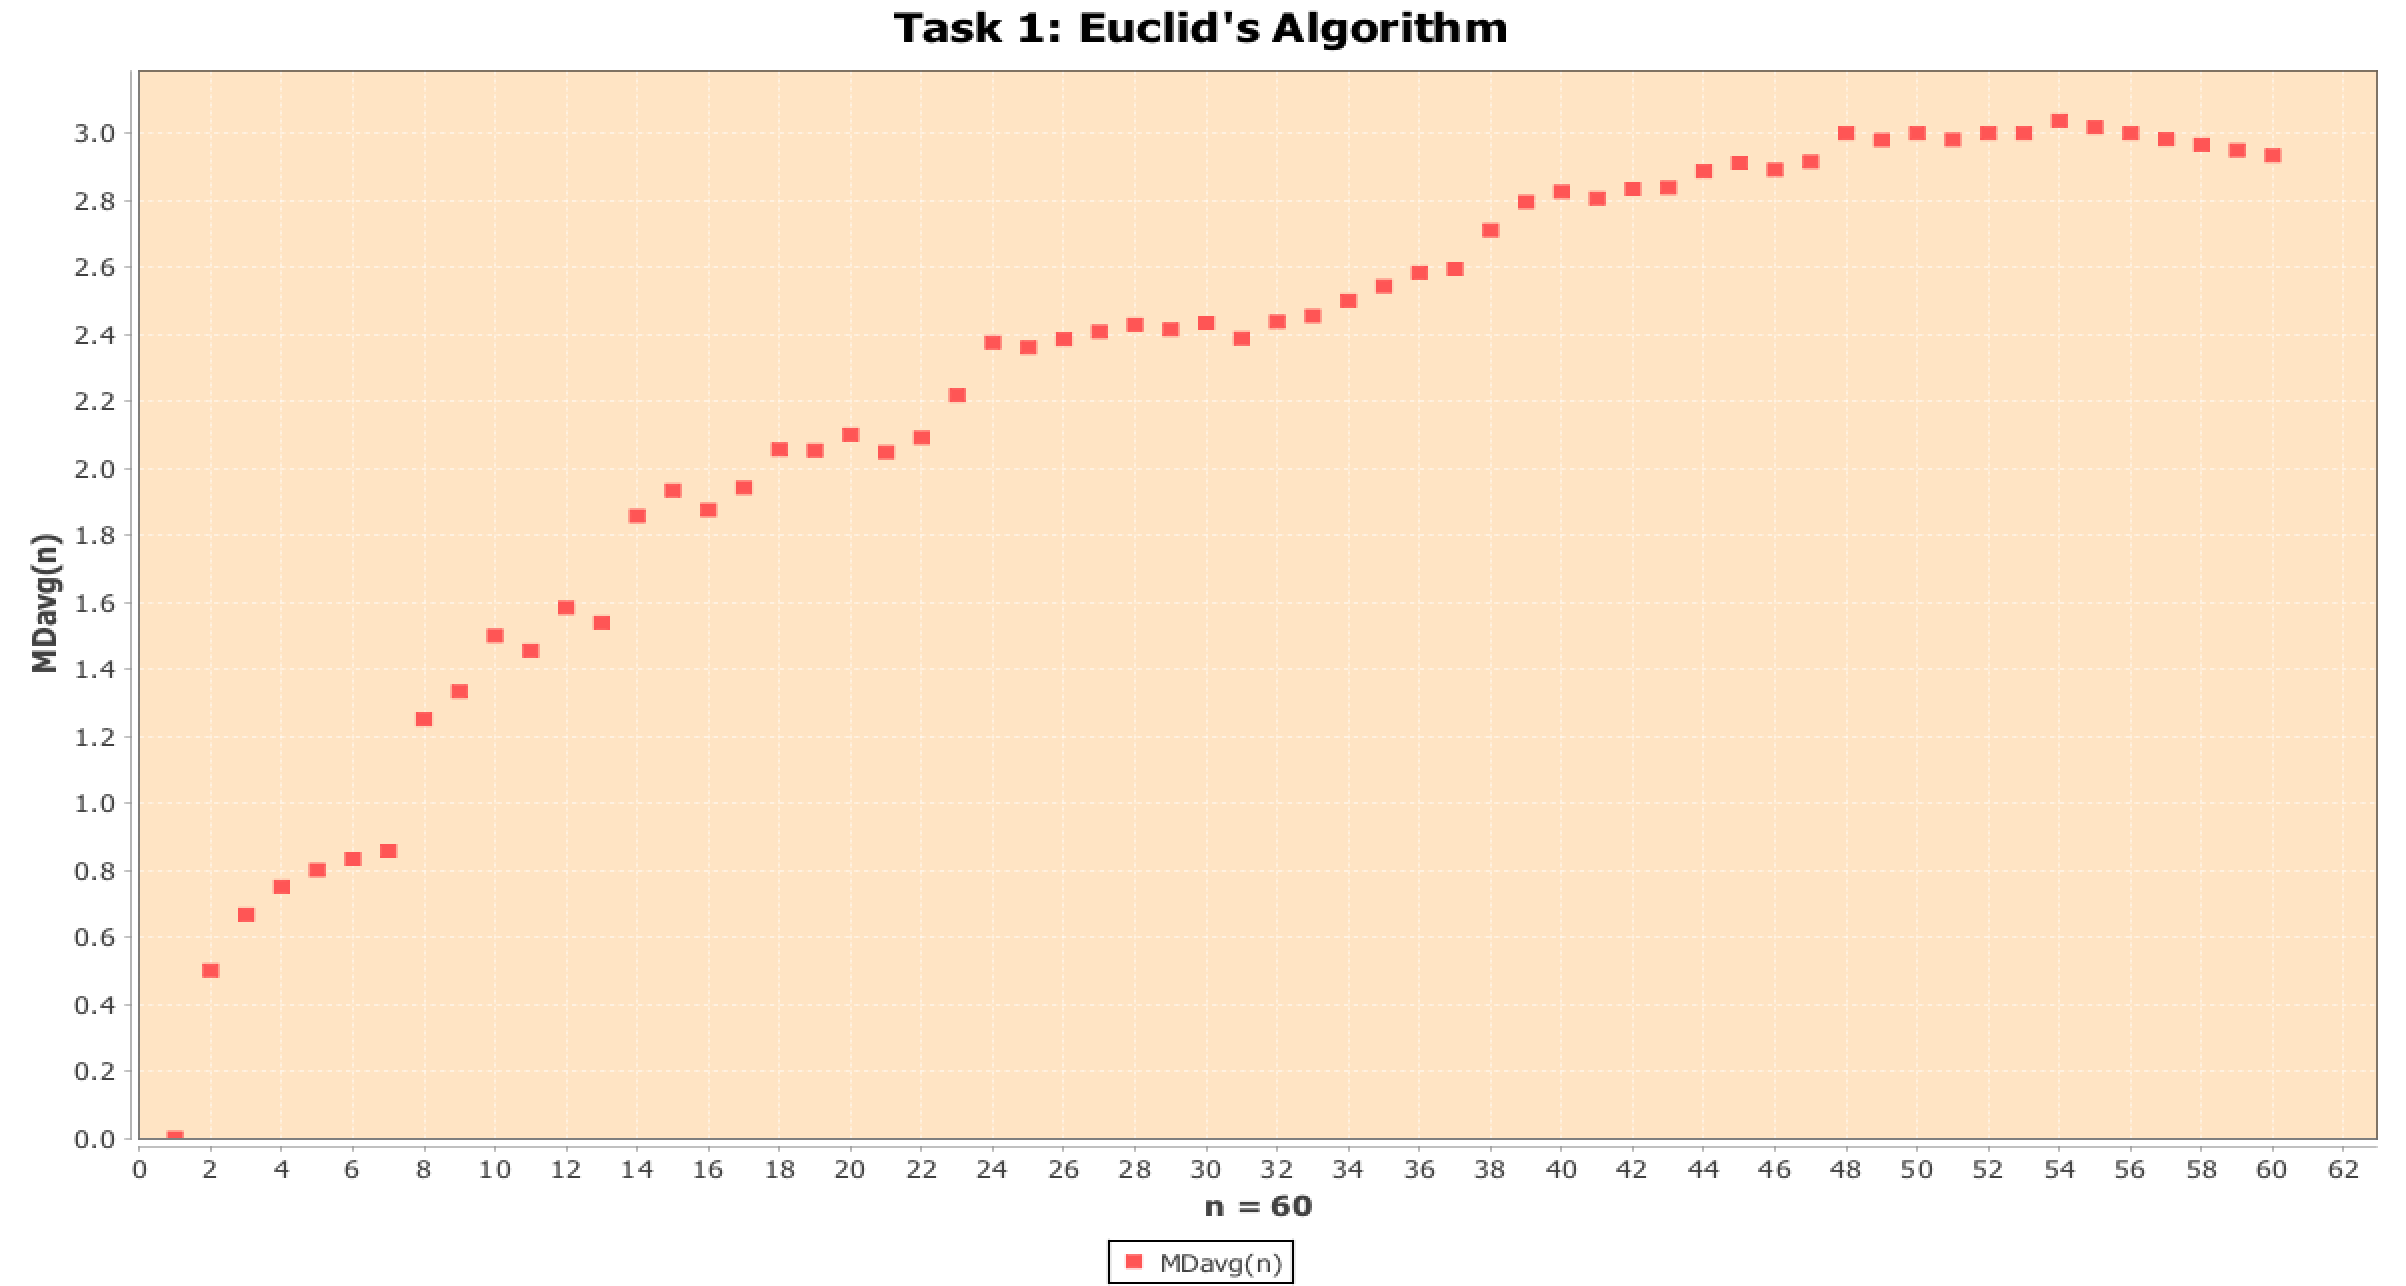
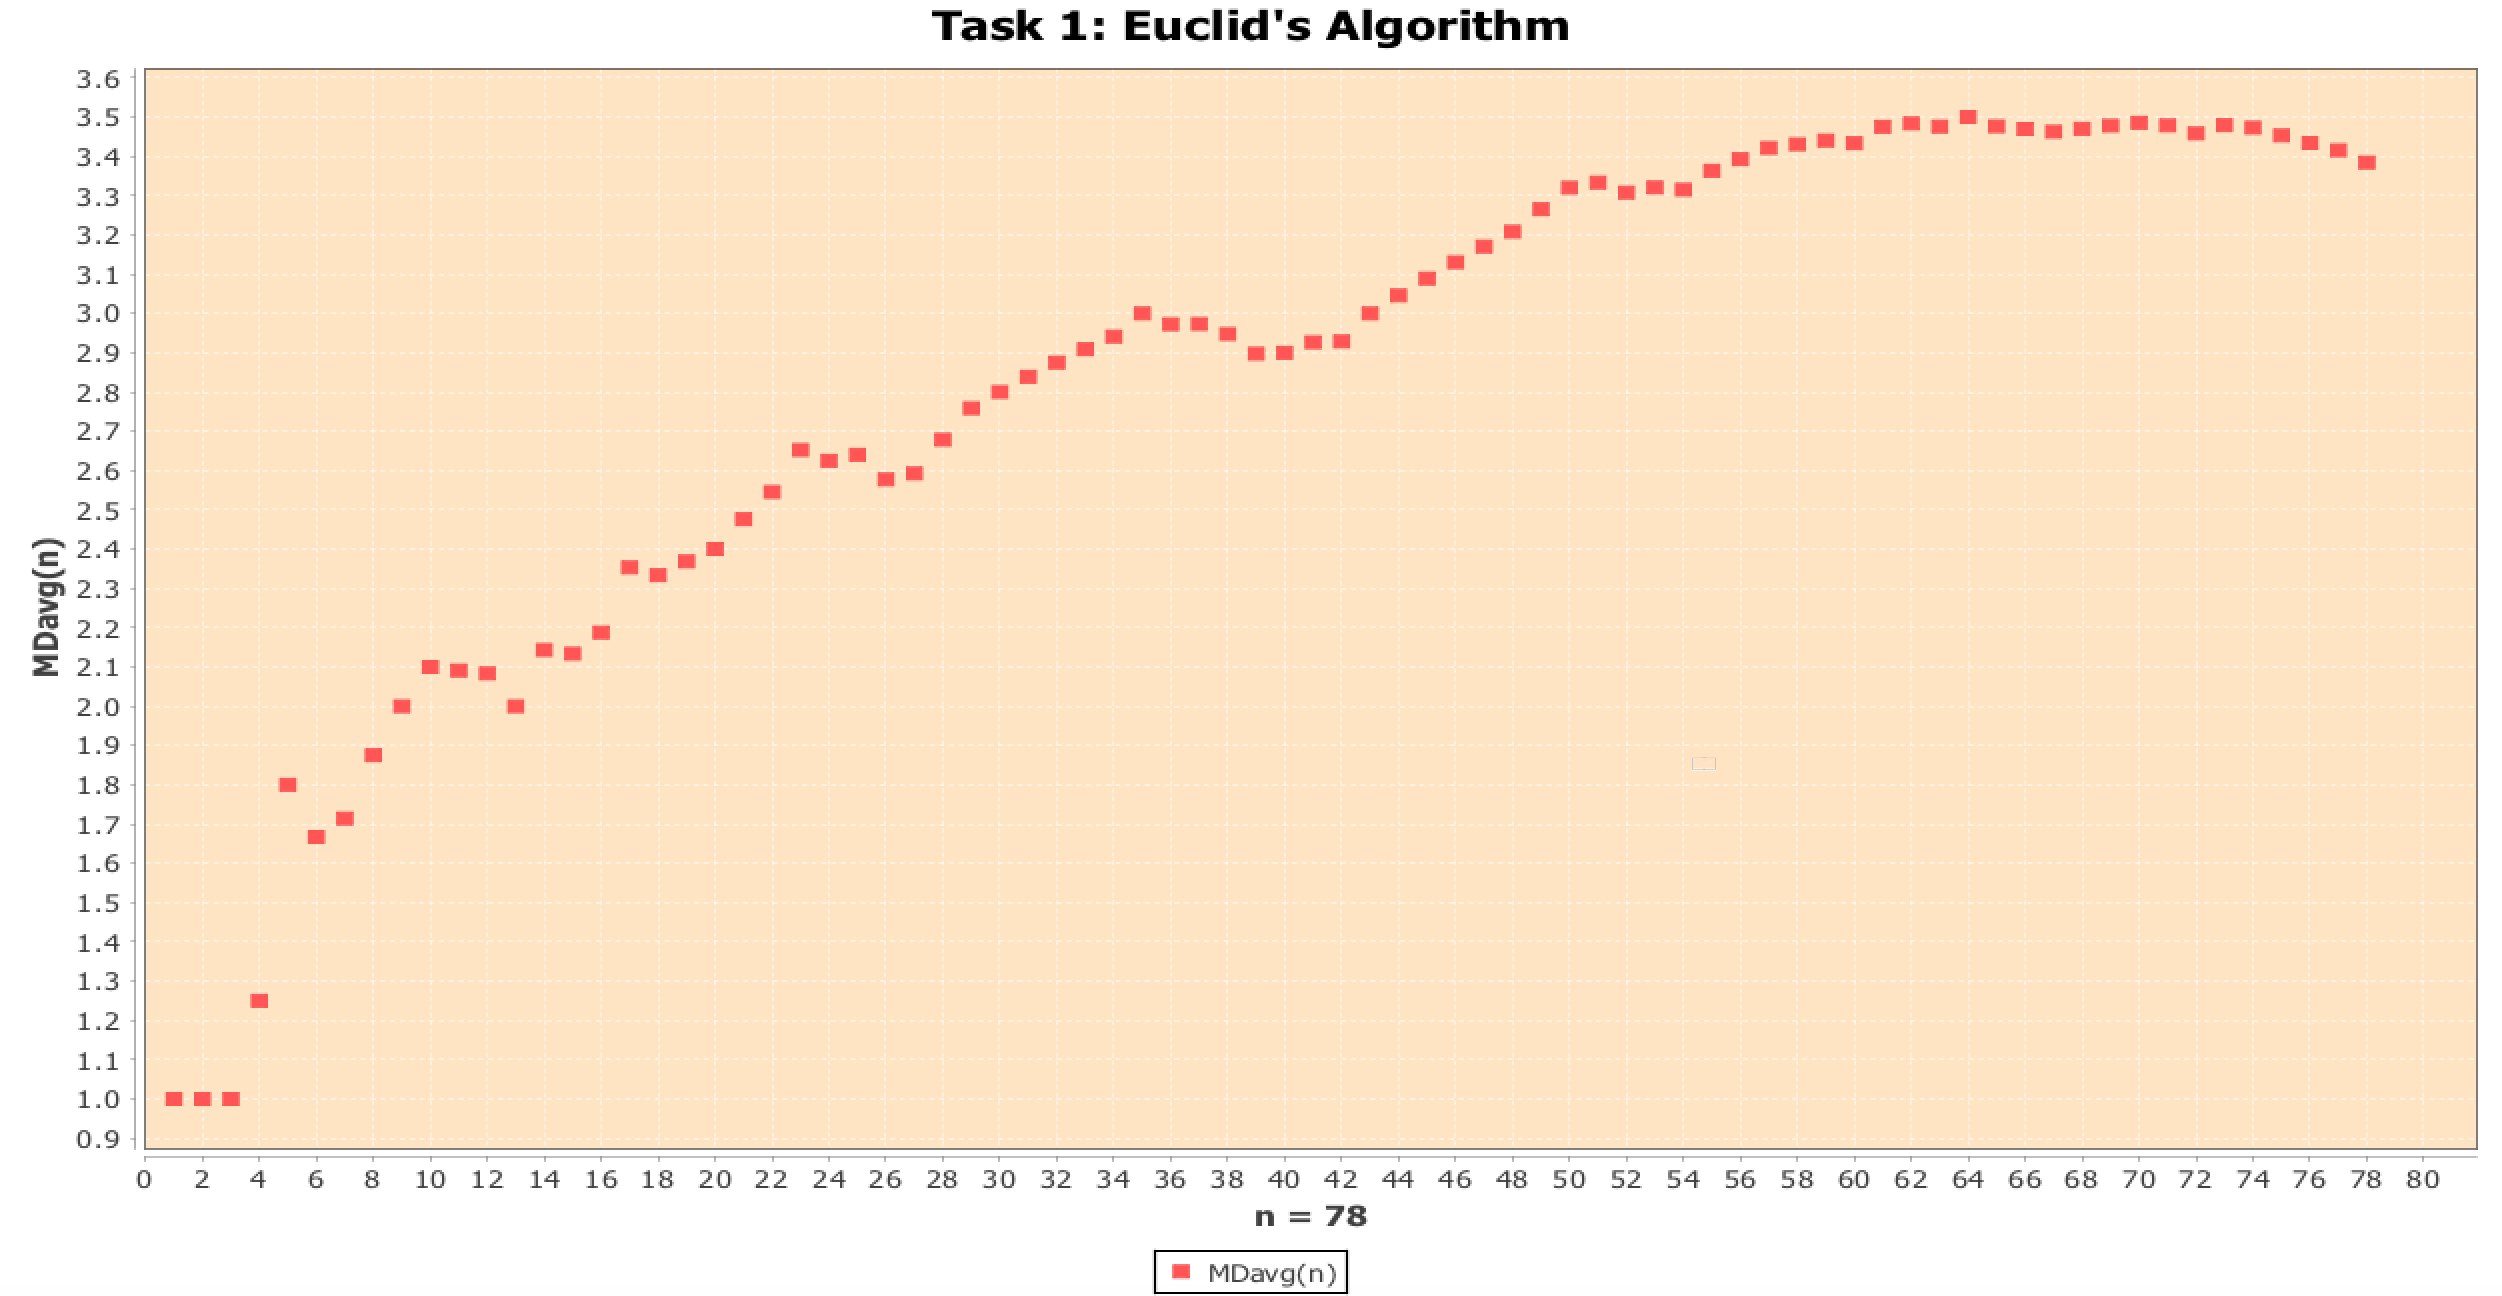
fixing task 1 once and for all

diff --git a/src/com/modes/ScatterPlotMode.java b/src/com/modes/ScatterPlotMode.java
@@ -116,7 +116,7 @@ public class ScatterPlotMode extends AbstractMode {
 		XYSeries series = new XYSeries(MD_AVG_N);
 		for (BigInteger i = BigInteger.valueOf(1); i.compareTo(BigInteger.valueOf(n + 1)) < 0; i = i.add(BigInteger.ONE)){
 			BigDecimal total = new BigDecimal(0.0);
-			for (BigInteger j = BigInteger.valueOf(1); j.compareTo(i) < 0; j = j.add(BigInteger.ONE)) {
+			for (BigInteger j = BigInteger.valueOf(1); j.compareTo(BigInteger.valueOf(i.intValue() + 1)) < 0; j = j.add(BigInteger.ONE)) {
 				BigInteger divisions = euclids.getDivisionCountGCD(BigInteger.valueOf(n), j);
 				total = total.add(new BigDecimal(divisions));
 			}
@@ -129,7 +129,7 @@ public class ScatterPlotMode extends AbstractMode {
 		XYSeries series = new XYSeries(D_AVG_N);
 		for (BigInteger i = BigInteger.valueOf(1); i.compareTo(BigInteger.valueOf(n + 1)) < 0; i = i.add(BigInteger.ONE)){
 			BigDecimal total = new BigDecimal(0.0);
-			for (BigInteger j = BigInteger.valueOf(1); j.compareTo(i) < 0; j = j.add(BigInteger.ONE)) {
+			for (BigInteger j = BigInteger.valueOf(1); j.compareTo(BigInteger.valueOf(i.intValue() + 1)) < 0; j = j.add(BigInteger.ONE)) {
 				BigInteger divisions = cic.getDivisionCountGCD(BigInteger.valueOf(n), j);
 				total = total.add(new BigDecimal(divisions));
 			}
